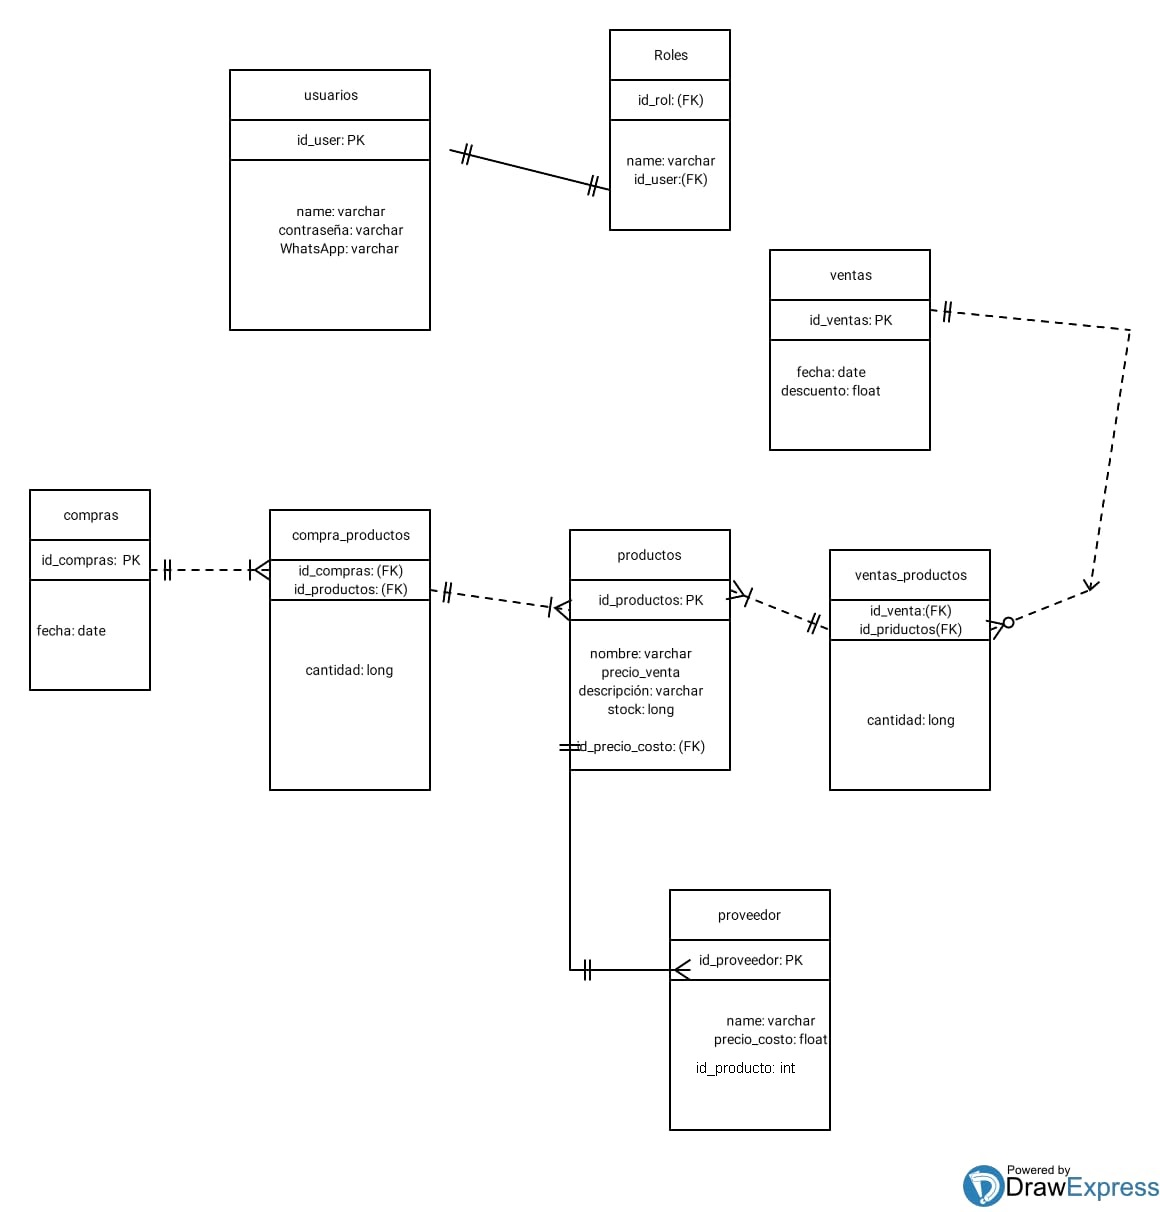
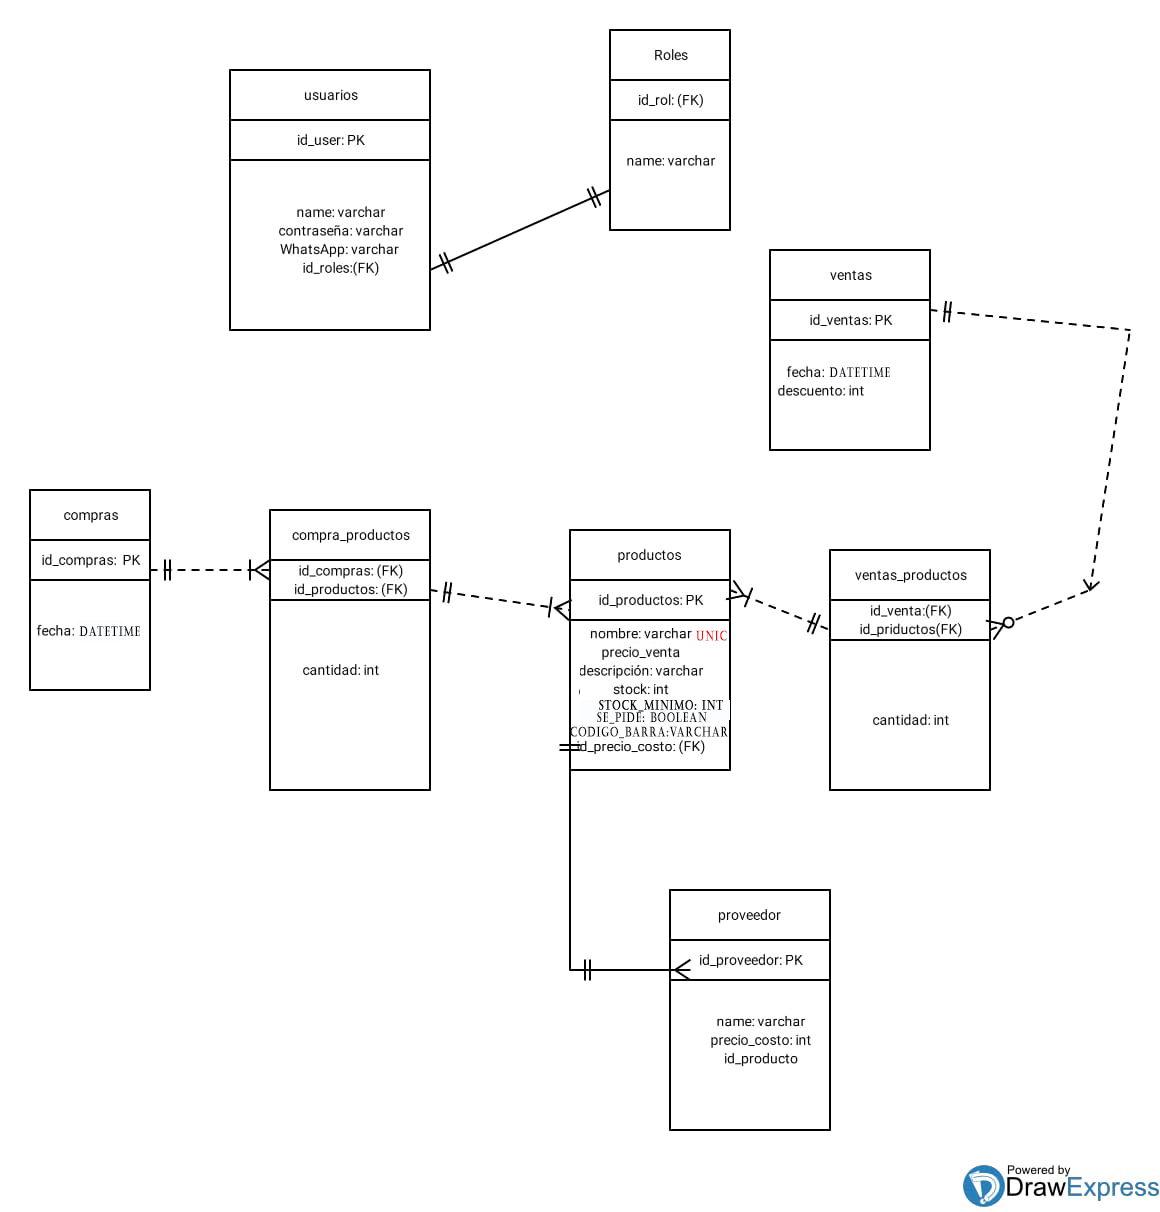
se modifica la bbdd para agregar fechas con horas e items para los productos

diff --git a/README.md b/README.md
@@ -1,2 +1,3 @@
-# elArgentino
-programa para ventas de un comercia y stock
+## elArgentino
+<h2> programa para ventas de un comercio y stock del mismo </h2>
+<h4> me agrega la vase de datos y el modelo entidad relacion </h4>
